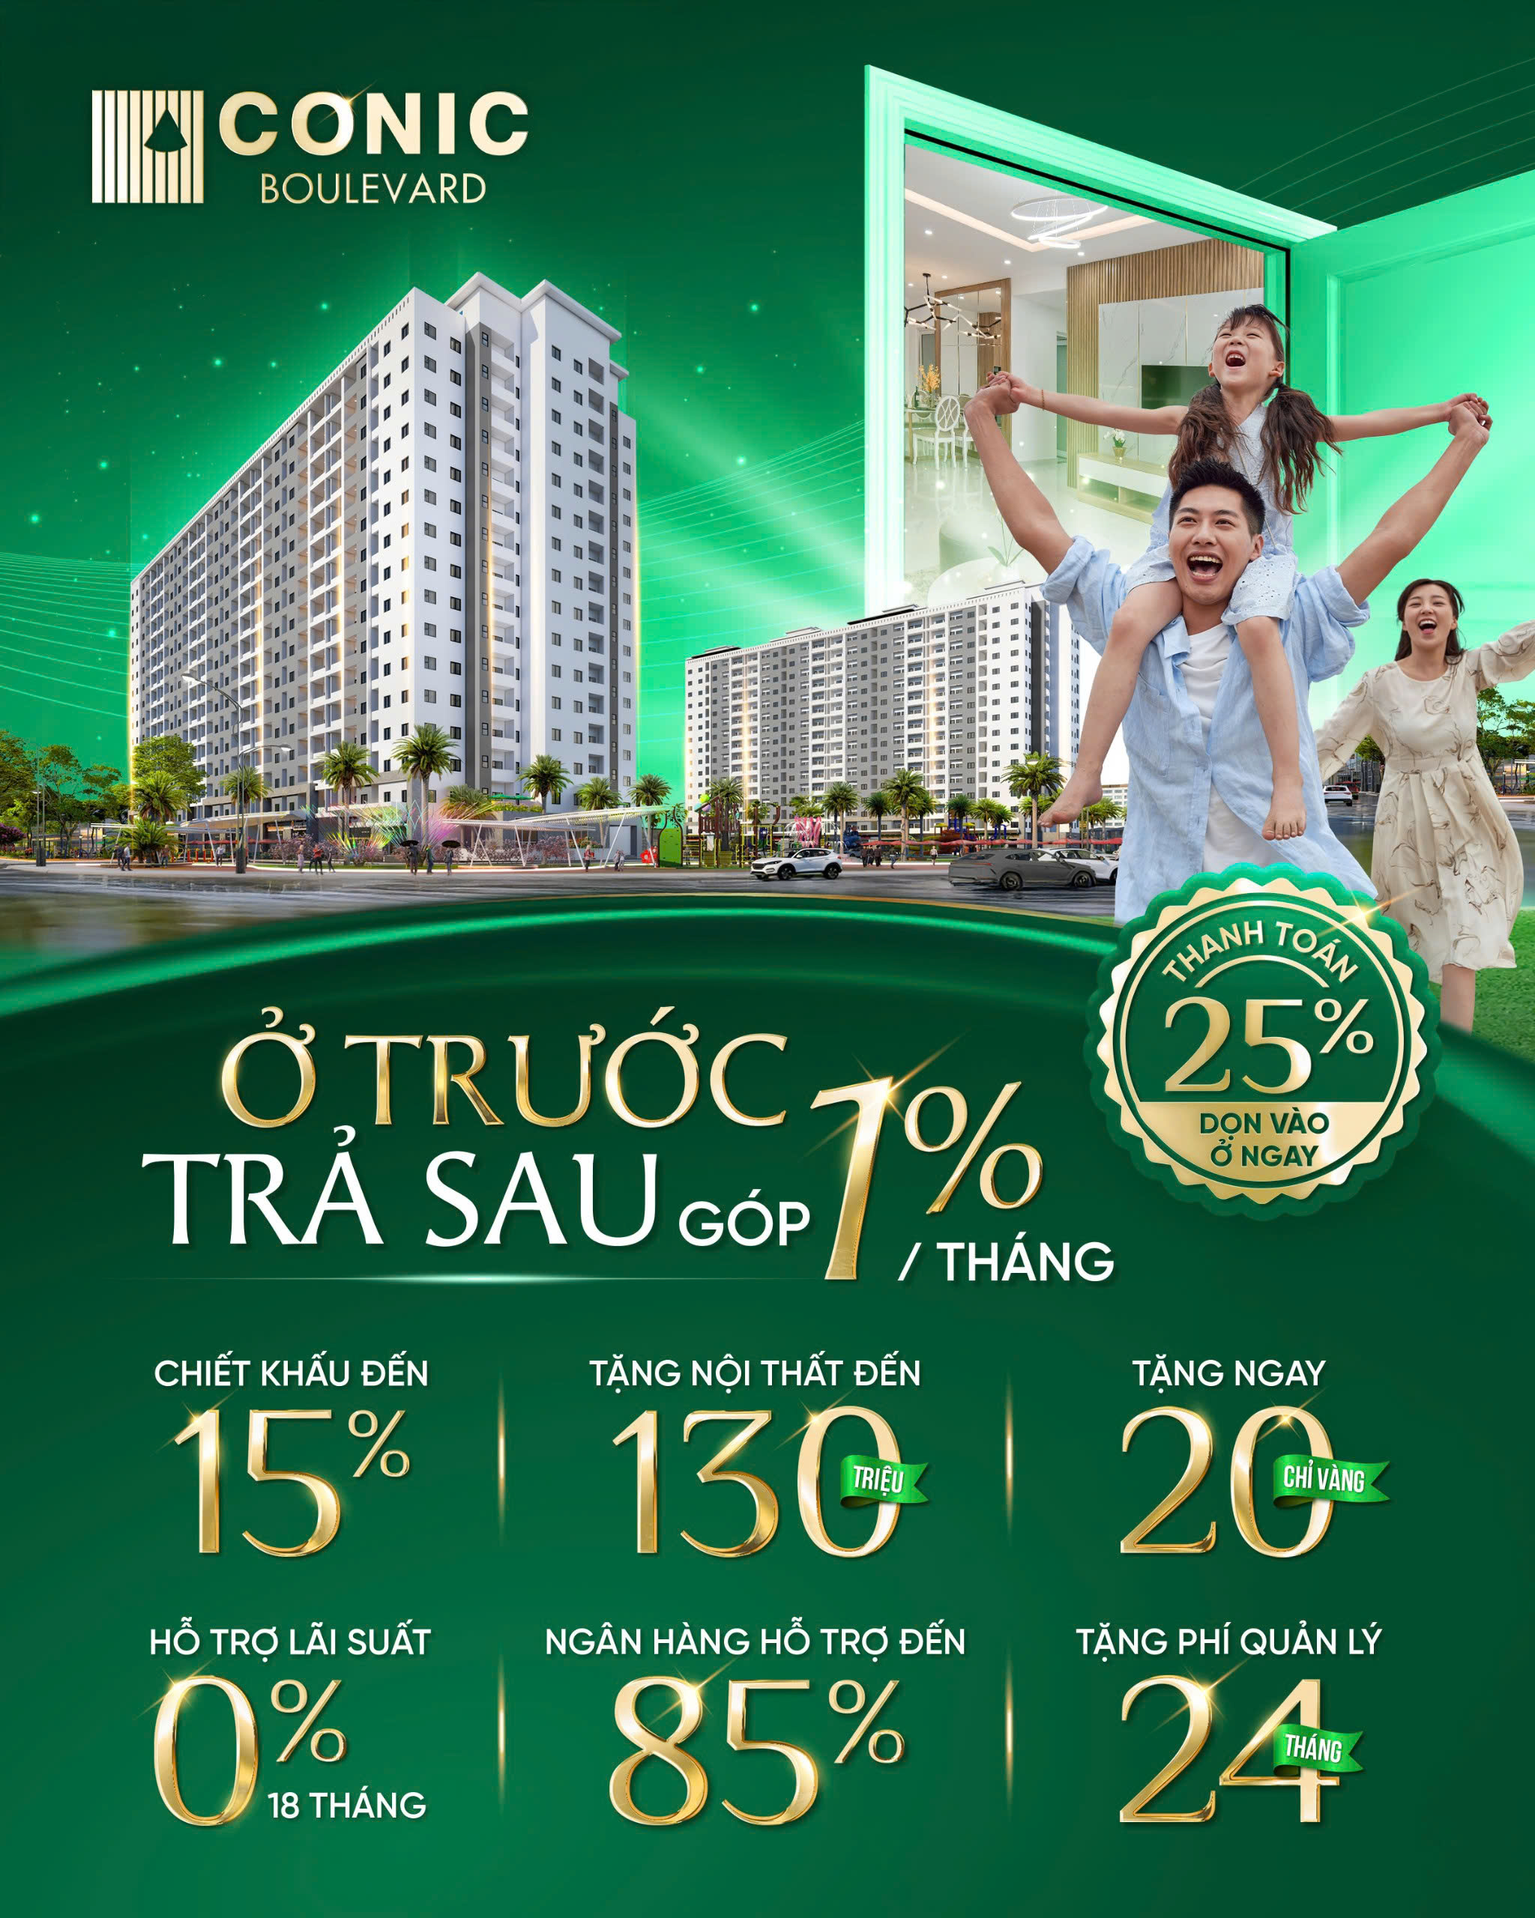
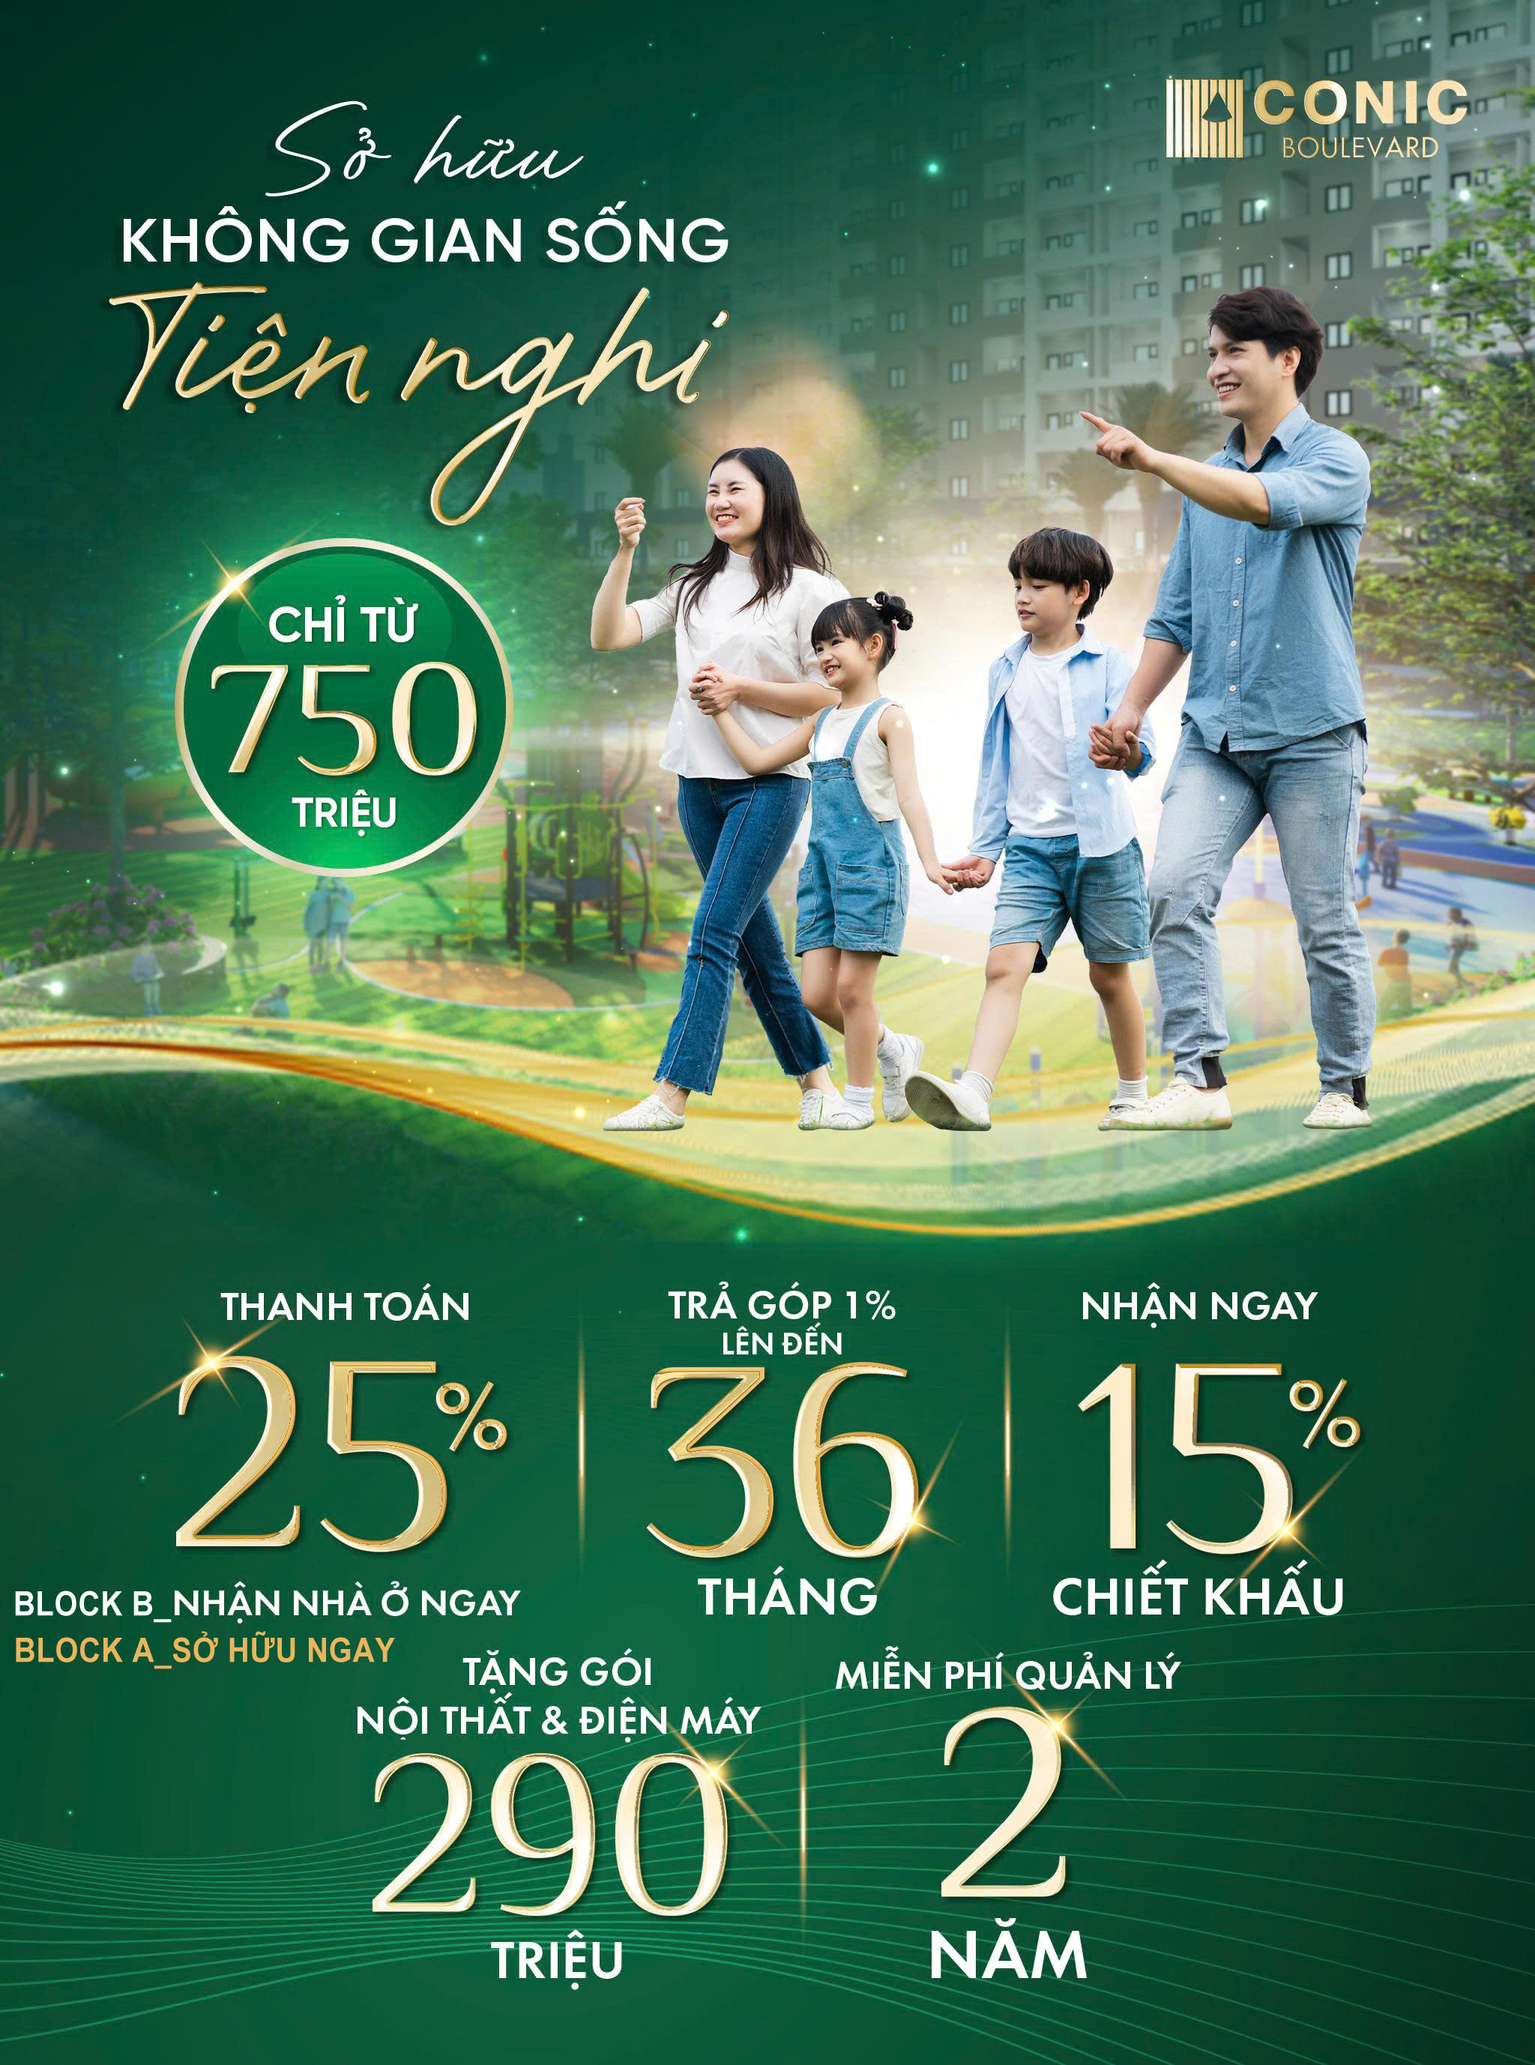
Update user interface

diff --git a/src/pages/Home.jsx b/src/pages/Home.jsx
@@ -12,50 +12,62 @@ const Home = () => {
         <section id="thongtin" className="max-w-screen-2xl mx-auto sm:pt-10">
           <div className="flex flex-col md:flex-row gap-3 md:gap-10 items-start">
             {/* Khối bên trái chứa tiêu đề + nội dung */}
-            <div className="flex-1 flex flex-col">
-              <h2 className="text-3xl sm:text-5xl font-bold pb-2 text-black font-dancing">Tổng Quan Dự Án</h2>
-              <h2 className="text-2xl sm:text-4xl font-bold pb-4 text-darkgreen">CONIC BOULEVARD</h2>
+            <div className="w-full md:w-1/3 flex flex-col pt-8">
+              <h2
+                className="text-3xl sm:text-5xl font-bold pb-2 text-lightgreen"
+                style={{
+                  fontFamily: "Arial, sans-serif",
+                  fontStyle:  "italic"
+                }}
+              >
+                Tổng Quan Dự Án
+              </h2>
 
-              <div className="text-sm sm:text-2xl">
+              <div className="text-sm sm:text-2xl text-lightgreen pt-2">
                 <p>
-                  <strong>TỔNG DIỆN TÍCH:</strong> 5.3 ha<br />
-                  <strong>QUY MÔ:</strong> Gồm 2 phân khu<br />
-                  - 114 căn thấp tầng<br />
-                  - 2 khối căn hộ: 952 căn hộ + 24 căn shophouse<br />
+                  <strong>TỔNG DIỆN TÍCH: 5.3 ha</strong> 
                 </p>
 
-                <div className="pl-3 pt-2">
+                <div className="pt-4">
                   <p>
-                    <strong>Block A:</strong> 4 nguyên đơn, cao 15 tầng, 1 tầng hầm,<br />
-                    tổng số 420 căn hộ & 10 căn shophouse
-                  </p>
-                  <p>
-                    <strong>Block B:</strong> 5 nguyên đơn, cao 15 tầng, 1 tầng hầm,<br />
-                    tổng số 532 căn hộ & 14 căn shophouse
+                    <strong>QUY MÔ:</strong> Gồm 2 phân khu: 114 căn thấp tầng, 2 khối căn hộ: 952 căn hộ + 24 căn shophouse
                   </p>
                 </div>
 
-                <div className="pt-4 space-y-2">
-                  <p><strong>MẬT ĐỘ XÂY DỰNG:</strong> 28,7%</p>
+                <div className="pt-4">
+                  <p>
+                    <strong>- Block A:</strong> 4 nguyên đơn cao 15 tầng, 1 tầng hầm, tổng số 420 căn hộ & 10 căn shophouse
+                  </p>
+                </div>
+
+                <div className="pt-4">
+                  <p>
+                    <strong>- Block B:</strong> 5 nguyên đơn cao 15 tầng, 1 tầng hầm, tổng số 532 căn hộ & 14 căn shophouse
+                  </p>
+                </div>
+
+                <div className="pt-4 space-y-4">
+                  <p>
+                    <strong>MẬT ĐỘ XÂY DỰNG:</strong>{" "}
+                    <strong className="text-xl sm:text-4xl">28,7%</strong>
+                  </p>
                   <p><strong>HÌNH THỨC SỞ HỮU:</strong> Lâu dài</p>
-                  <p><strong>TIẾN ĐỘ DỰ ÁN:</strong> Dự kiến Quý II/2025</p>
+                  <p><strong>TIẾN ĐỘ DỰ ÁN:</strong></p>
+                  <p><strong>- Bàn giao nhà: Block B</strong> - 02/04/2025</p>
+                  <p className="pl-44"><strong>Block A – Quý </strong>04/2025</p>
+                  <p><strong>- Làm sổ hồng: </strong>02/06/2025</p>
                   <p><strong>VỊ TRÍ:</strong> Đ. Huỳnh Bá Chánh, Tân Kiên, H. Bình Chánh, TP. HCM</p>
                 </div>
               </div>
             </div>
 
             {/* Hình ảnh bên phải */}
-            <div className="flex-1 h-full self-stretch">
+            <div className="w-full md:w-2/3 h-full self-stretch">
               <FullscreenImage
                 src="/thongtin.jpg"
                 alt="Thông tin dự án"
                 className="w-full h-auto object-cover rounded-xl shadow-lg"
               />
-              {/* <img
-                src="/thongtin.jpg"
-                alt="Thông tin dự án"
-                className="w-full h-full object-cover rounded-xl shadow-lg"
-              /> */}
             </div>
           </div>
 
@@ -75,71 +87,82 @@ const Home = () => {
         <section id="vitri" className="max-w-screen-2xl mx-auto sm:pt-10">
           <div className="flex flex-col md:flex-row gap-4 md:gap-10 items-center">
             {/* Hình ảnh bên trái với dòng chữ bên dưới */}
-            <div className="w-[65%] w-full">
+            <div className="w-full md:w-[60%]">
               <FullscreenImage
                 src="/vitri.jpg"
                 alt="Vị trí Conic Boulevard"
-                className="shadow-lg w-full max-w-3xl object-cover"
+                className="shadow-lg w-full object-cover rounded-xl"
               />
               <p className="text-sm sm:text-2xl text-darkgreen font-dancing mt-3 text-center">
                 ĐỦ GẦN PHỒN HOA - ĐỦ XA VỘI VÃ
               </p>
             </div>
+
             {/* Văn bản bên phải canh giữa theo chiều cao */}
-            <div className="w-[35%] w-full">
-              <h2 className="text-3xl sm:text-5xl font-bold text-darkgreen font-dancing">Vị Trí Đắc Địa</h2>
-              <h1 className="text-2xl sm:text-4xl text-darkgreen font-dancing">Đủ gần</h1>
-              <p className="text-sm sm:text-2xl">
-                • Năm ngay nút giao Võ Văn Kiệt với Quốc Lộ 1A <br />
-                • Kết nối Quận 5, 6, 1 qua Đại Lộ Võ Văn Kiệt. <br />
-                • Kết nối các tỉnh miền tây qua cao tốc Trung Lương, Quốc Lộ 1A. <br />
+            <div className="w-full md:w-[40%] pl-16">
+              <h2 className="text-3xl sm:text-6xl font-bold text-darkgreen font-dancing">
+                Vị Trí Đắc Địa
+              </h2>
+              <h1 className="text-2xl sm:text-5xl text-darkgreen font-dancing">
+                Đủ gần
+              </h1>
+              <p className="text-sm sm:text-3xl space-y-2">
+                • Năm ngay nút giao Võ Văn Kiệt với Quốc Lộ 1A<br />
+                • Kết nối Quận 5, 6, 1 qua Đại Lộ Võ Văn Kiệt.<br />
+                • Kết nối các tỉnh miền tây qua cao tốc Trung Lương, Quốc Lộ 1A.<br />
+                • Kết nối với 7 Quận, Huyện qua tuyến kênh Tham Lương – Bến Cát – Rạch Nước Lên.<br />
               </p>
-              <h1 className="text-2xl sm:text-4xl text-darkgreen font-dancing md:pt-4">Đủ xa</h1>
-              <p className="text-sm sm:text-2xl">
+              <h1 className="text-2xl sm:text-5xl text-darkgreen font-dancing mt-4">
+                Đủ xa
+              </h1>
+              <p className="text-sm sm:text-3xl">
                 • Nằm biệt lập trong khu dân cư 584 đường Huỳnh Bá Chánh, xã Tân Kiên, Huyện Bình Chánh.
               </p>
             </div>
           </div>
+
           <div className="flex flex-col md:flex-row gap-3 md:gap-10 pt-3 md:pt-10 items-center">
             {/* Văn bản bên trái */}
-            <div className="w-[35%] w-full">
+            <div className="w-full md:w-[25%]">
               <h3 className="text-3xl sm:text-5xl font-bold text-darkgreen font-dancing md:pb-2">
                 Vị trí chiến lược, <br className="hidden md:inline" />
                 đón đầu tương lai
               </h3>
               <p className="pb-2 text-sm sm:text-2xl">
-                Conic Boulevard tọa lạc kiêu hãnh tại khu Tây Nam TP.HCM,
-                đón đầu sự phát triển của khu vực thông qua hàng loạt dự án hạ tầng giao thông nghìn tỷ.
-                Đây không chỉ là nơi kết nối các tuyến giao thông trọng điểm mà còn là đầu mối thông thương liên vùng,
-                đảm bảo khả năng di chuyển thuận tiện trong khu vực và liên tỉnh.
+                Conic Boulevard Tọa lạc kiêu hãnh tại khu Tây 
+                Nam TP.HCM, đón đầu sự phát triển của khu vực 
+                thông qua hàng loạt dự án hạ tầng giao thông 
+                nghìn tỷ. Đây không chỉ là nơi kết nối các tuyến 
+                giao thông trọng điểm mà còn là đầu mối thông 
+                thương liên vùng, đảm bảo khả năng di chuyển 
+                thuận tiện trong khu vực và liên tỉnh.
               </p>
               <p className="pb-2 text-sm sm:text-2xl">
-                Đón đầu quy hoạch Bình Chánh - đầu mối quan trọng kết nối TP.HCM với các tỉnh ĐBSCL
+                Đón đầu quy hoạch Bình Chánh – đầu mối quan trọng kết nối TP.HCM với các tỉnh ĐBSCL
               </p>
               <ul className="ml-2 list-disc pl-5 text-sm sm:text-2xl">
-                <li>Đón đầu các dự án hạ tầng giao thông trọng điểm: Metro 3A (Bến Thành – Tân Kiên), tuyến đường sắt cao tốc TP.HCM -Cần Thơ</li>
-                <li>Đón đầu tuyến thủy lộ xuyên tâm dài gần 32km đi qua 7 quận/huyện của TP.HCM đang được đầu tư hơn 9.000 tỷ đồng - kênh Bến Cát - Tham Lương -Rạch Nước Lên</li>
+                <li>
+                  Đón đầu các dự án hạ tầng giao thông trọng điểm: Metro 3A (Bến Thành – Tân Kiên), tuyến đường sắt cao tốc TP.HCM -Cần Thơ
+                </li>
+                <li>
+                  Đón đầu tuyến thủy lộ xuyên tâm dài gần 32km đi qua 7 quận/huyện của TP.HCM đang được đầu tư hơn 9.000 tỷ đồng - kênh Bến Cát - Tham Lương –Rạch Nước Lên
+                </li>
               </ul>
             </div>
-            <div className="w-[65%] w-full">
-              <FullscreenImage
-                src="/map.png"
-                alt="Vị trí Conic Boulevard"
-                className="shadow-lg w-full max-w-3xl object-cover"
-              />
+
+            {/* Ảnh bên phải */}
+            <div className="w-full md:w-[75%]">
+              <div className="relative w-full rounded-xl overflow-hidden" style={{ paddingBottom: "75%" }}>
+                <FullscreenImage
+                  src="/map.png"
+                  alt="Vị trí Conic Boulevard"
+                  className="absolute inset-0 w-full h-full object-cover shadow-lg"
+                />
+              </div>
             </div>
           </div>
+
           <div className="pt-4 md:pt-16 pb-4 md:pb-0 w-full flex justify-center">
-            {/* <div className="w-full max-w-5xl aspect-video">
-              <iframe
-                className="w-full h-full rounded-xl shadow-lg"
-                src="https://www.youtube.com/embed/7fXVvcROavY"
-                title="Video giới thiệu vị trí đắc địa"
-                frameBorder="0"
-                allow="accelerometer; autoplay; clipboard-write; encrypted-media; gyroscope; picture-in-picture"
-                allowFullScreen
-              ></iframe>
-            </div> */}
             <FullscreenVideo
               videoUrl="https://www.youtube.com/embed/7fXVvcROavY?enablejsapi=1"
               className="w-full max-w-5xl aspect-video"

diff --git a/src/components/FloorSlider.jsx b/src/components/FloorSlider.jsx
@@ -1,4 +1,5 @@
 // src/components/FloorSlider.jsx
+import { useState, useEffect, useRef } from "react";
 import { Swiper, SwiperSlide } from "swiper/react";
 import { Navigation, Pagination } from "swiper/modules";
 import "swiper/css";
@@ -13,11 +14,45 @@ const floorPlans = [
 ];
 
 export default function FloorSlider() {
+  const [isFs, setIsFs] = useState(false);
+  const wrapperRef = useRef(null);
+
+  // Theo dõi fullscreen
+  useEffect(() => {
+    const onFsChange = () => {
+      // Mỗi khi fullscreenchange, kiểm tra xem chính wrapperRef đang full-screen không
+      setIsFs(document.fullscreenElement === wrapperRef.current);
+    };
+    document.addEventListener("fullscreenchange", onFsChange);
+    return () => document.removeEventListener("fullscreenchange", onFsChange);
+  }, []);
+
+  const openFullscreen = () => {
+    const el = wrapperRef.current;
+    if (!el) return;
+    if (el.requestFullscreen) el.requestFullscreen();
+    else if (el.webkitRequestFullscreen) el.webkitRequestFullscreen();
+    else if (el.msRequestFullscreen) el.msRequestFullscreen();
+  };
+
+  const exitFullscreen = () => {
+    if (document.exitFullscreen) document.exitFullscreen();
+    else if (document.webkitExitFullscreen) document.webkitExitFullscreen();
+  };
+
   return (
-    <div className="w-full pb-5 md:py-10">
+    <div
+      ref={wrapperRef}
+      className={`w-full pb-5 md:py-10 relative ${
+        isFs ? "flex flex-col h-screen" : ""
+      }`}
+    >
+      {/* Tiêu đề luôn nằm top */}
       <h2 className="text-3xl sm:text-5xl font-bold text-darkgreen text-center font-dancing sm:pb-4">
         Mặt Bằng Tổng Thể
       </h2>
+
+      {/* Swiper sẽ flex-1 và chiếm hết khoảng còn lại của wrapper khi full-screen */}
       <Swiper
         modules={[Navigation, Pagination]}
         slidesPerView={1}
@@ -26,25 +61,41 @@ export default function FloorSlider() {
           prevEl: ".swiper-button-prev",
         }}
         pagination={{ clickable: true }}
-        allowTouchMove={false} // Tắt kéo tay
-        speed={700} // Không có hiệu ứng chuyển động
-        loop={true} // Không lặp
-        className="w-full mx-auto rounded-xl shadow-xl overflow-hidden relative"
+        allowTouchMove={false}
+        speed={700}
+        loop={true}
+        className={`w-full mx-auto rounded-xl shadow-xl relative ${
+          isFs ? "flex-1" : ""
+        }`}
       >
-        {floorPlans.map((plan, index) => (
-          <SwiperSlide key={index}>
+        {floorPlans.map((plan, idx) => (
+          <SwiperSlide key={idx}>
             <img
               src={plan.src}
               alt={plan.alt}
-              className="w-full h-auto object-cover"
+              onClick={openFullscreen}
+              className={`cursor-zoom-in w-full ${
+                isFs
+                  ? "h-full w-auto object-contain mx-auto"
+                  : "h-auto object-cover"
+              }`}
             />
           </SwiperSlide>
         ))}
 
-        {/* Custom Navigation Buttons */}
         <div className="swiper-button-prev !text-darkgreen" />
         <div className="swiper-button-next !text-darkgreen" />
       </Swiper>
+
+      {/* Nút ✕ hiển thị khi wrapper đang full-screen */}
+      {isFs && (
+        <button
+          onClick={exitFullscreen}
+          className="fixed top-4 right-4 z-50 bg-white text-black text-2xl p-2 rounded-full shadow-lg"
+        >
+          ✕
+        </button>
+      )}
     </div>
   );
 }

diff --git a/tailwind.config.js b/tailwind.config.js
@@ -16,7 +16,8 @@ export default {
         darkgreen: '#014421',
         textgreen: '#255530',
         brightgreen: '#00C779',
-        luxurybronze: '#D4AF37',
+        luxurybronze: '#ffc000',
+        lightgreen: '#00b050',
         white: '#FFFFFF',
         darkgrey: '#333333',
         redbrown: '#783a33',
